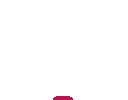
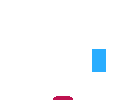
update images and logic r10 to r17

Changed region(s): [[0.7188, 0.48, 0.8438, 0.72]]

diff --git a/data.js b/data.js
@@ -204,11 +204,12 @@ module.exports.ROOMS = {
             // #ff0000
             hff0000: { cmd: "enter", room: "r06Reciclaje", label: "Materiales y residuos", point: [92, 95], enterPoint: [68, 47], obstacle: false },
             // #00e436
-            h00e436: { cmd: "enter", room: "r03Cookies", label: "cookies", point: [120, 84], enterPoint: [10, 85], obstacle: false },
+            // h00e436: { cmd: "enter", room: "r03Cookies", label: "cookies", point: [120, 84], enterPoint: [10, 85], obstacle: false },
+            h00e436: { cmd: "enter", room: "r12Resolucion", label: "cookies", point: [120, 84], enterPoint: [10, 85], obstacle: false },
             // #ff77a8
-            hff77a8: { cmd: "enter", room: "r10Nubes", label: "La nube", point: [98, 72], enterPoint: [60, 98], obstacle: false },
+            // hff77a8: { cmd: "enter", room: "r10Nubes", label: "La nube", point: [98, 72], enterPoint: [120, 92], obstacle: false },
             // #29adff
-            h29adff: { cmd: "enter", room: "r10Nubes", label: "La nube", point: [32, 72], enterPoint: [60, 98], obstacle: false },
+            h29adff: { cmd: "enter", room: "r10Nubes", label: "La nube", point: [32, 72], enterPoint: [120, 92], obstacle: false },
             // #ffec27
             hffec27: { cmd: "enter", room: "r09FakeNews", label: "Fake News", point: [10, 85], enterPoint: [120, 86], obstacle: false },
             // #be1250
@@ -229,7 +230,7 @@ module.exports.ROOMS = {
             h00cc99: { cmd: "text", label: "espejo 6", txt: "¡Genial! Si te interesa saber más sobre seguridad en la red, por aquí te dejamos información más amplia: ", lines: 4, url: "https://arsgames.net/wp-content/uploads/2019/02/manual-de-seguridad-digital.pdf", iframe: true, point: [87, 84], obstacle: false },
         },
         things: {
-            personaje: { file: "salas/r08Huella_NPC_Sprite.png", id: "personaje", offset: 2, position: [60, 77 - 11], frames: 4, frameDelay: 30, visible: true, label: "HuellaTRON", command: { cmd: "text", txt: "Uy si, las cookies de terceros son peligrosas para tu privacidad, seguro ya has aceptado muchas ¿revisamos tu huella digital?", lines: 4, point: [69, 88], obstacle: false }},
+            personaje: { file: "salas/r08Huella_NPC_Sprite.png", id: "personaje", position: [60, 77 - 11], frames: 4, frameDelay: 30, visible: true, label: "HuellaTRON", command: { cmd: "text", txt: "Uy si, las cookies de terceros son peligrosas para tu privacidad, seguro ya has aceptado muchas ¿revisamos tu huella digital?", lines: 4, point: [69, 88], obstacle: false }},
             // command: { cmd: "text", txt: "", lines: 2, postAction: true, actionId: "Survey1",  label: "???", point: [65, 95], obstacle: false } },
         }
         
@@ -246,9 +247,9 @@ module.exports.ROOMS = {
         areaColors: {
             //h will be replaced by #
             // #00e436
-            h00e436: { cmd: "enter", room: "r08Huella", label: "huella", point: [120, 85], enterPoint: [10, 85], obstacle: false },
+            h00e436: { cmd: "enter", room: "r08Huella", label: "Huella", point: [120, 85], enterPoint: [10, 85], obstacle: false },
             // #ffec27
-            hffec27: { cmd: "enter", room: "r10Nubes", label: "nubes", point: [10, 85], enterPoint: [60, 98], obstacle: false },
+            hffec27: { cmd: "enter", room: "r10Nubes", label: "La nube", point: [10, 85], enterPoint: [60, 98], obstacle: false },
             // #00cc99
             h00cc99: { cmd: "text", label: "news1", point: [97, 80], obstacle: false, txt: "hay que poner algo", url:"https://juego.verdaderofalso.com/", iframe: true },
             // #ff00ff
@@ -258,20 +259,29 @@ module.exports.ROOMS = {
         }
     },
     r10Nubes: {
-        bg: "/salas/r10Nubes.png",
+        bg: "/salas/r10Nubes_anim2.png",
+        frames: 2,
+        animations: { 
+            nube: [0, 2], 
+            transformacion: [2, 2], 
+            cables: [4, 2],
+        },
         frameDelay: 60,
         avatarScale: 3,
         pageBg: "#1c2016",
-        area: "/salas/r10Nubes_Int.png",
+        area: "/salas/r10Nubes_Int_Anim.png",
         tint: "#fdeac8",
         bubblesY: 44,
         spawn: [40, 85, 90, 95],
         areaColors: {
             //h will be replaced by #
-
+            // #00e436
+            h00e436: { cmd: "enter", room: "r08Huella", label: "Huella", point: [115, 92], enterPoint: [32, 72], obstacle: false },
+            // #ffec27
+            hffec27: { cmd: "enter", room: "r11Lago", label: "Lago", point: [20, 85], enterPoint: [32, 72], obstacle: false },
             // HABRIA QUE PONER OTRA SALIDA???
             // #ff0000
-            hff0000: { cmd: "enter", room: "r08Huella", label: "huella", point: [60, 98], enterPoint: [32, 72], obstacle: false },
+            hff0000: { cmd: "enter", room: "r09FakeNews", label: "Fake News", point: [60, 98], enterPoint: [10, 86], obstacle: false },
             // #ff77a8
             hff77a8: { cmd: "enter", room: "r13Netiqueta", label: "planta -1", point: [86, 77], enterPoint: [60, 95], obstacle: false },
             // #b75714
@@ -286,22 +296,33 @@ module.exports.ROOMS = {
             h0066ff: { cmd: "text", label: "nube oscura 2", txt: "¡Internet contamina! Mira cuanto (embeber nada más la infografía que se mueve. Si pudiésemos hacerla nosotros en castellano mucho mejor ", url: "https://www.ticbeat.com/innovacion/huella-carbono-internet/", iframe: true, lines: 5, point: [60, 85], obstacle: false },
             // #9900cc
             h9900cc: { cmd: "text", label: "nube oscura 3", txt: "hacer una infografía similar a esta, que muestre más información y datos.", url: "https://www.custommade.com/blog/carbon-footprint-of-internet/", iframe: true, lines: 3, point: [80, 80], obstacle: false },
-        }
+        },
+        things: {
+            // nubeA: { file: "salas/r08Huella_NPC_Sprite.png", id: "personaje", position: [60, 77 - 11], frames: 4, frameDelay: 30, visible: true, label: "HuellaTRON", command: { cmd: "text", txt: "Uy si, las cookies de terceros son peligrosas para tu privacidad, seguro ya has aceptado muchas ¿revisamos tu huella digital?", lines: 4, point: [69, 88], obstacle: false }},
+            // command: { cmd: "text", txt: "", lines: 2, postAction: true, actionId: "Survey1",  label: "???", point: [65, 95], obstacle: false } },
+        },
     },
     r11Lago: {
         bg: "/salas/r11Lago.png",
+        frames: 2,
         frameDelay: 60,
         avatarScale: 3,
         pageBg: "#1c2016",
-        area: "/salas/r11Lago_Int.png",
+        area: "/salas/r11Lago_Int2.png",
         tint: "#fdeac8",
         bubblesY: 44,
-        spawn: [40, 85, 90, 95],
+        spawn: [10, 72, 21, 82],
         areaColors: {
             //h will be replaced by #
-            // #be1250
-            hbe1250: { cmd: "enter", room: "r10Nubes", label: "nubes", point: [60, 95], enterPoint: [86, 77], obstacle: false },
-        }
+            // #ffec27
+            hffec27: { cmd: "enter", room: "r10Nubes", label: "nubes", point: [15, 80], enterPoint: [10, 86], obstacle: false },
+            // #9900cc
+            h9900cc: { cmd: "text", txt: "como te llamas?", label: "pescador", point: [109, 74], obstacle: false },
+        },
+        things: {
+            // pescador: { file: "salas/r08Huella_NPC_Sprite.png", id: "personaje", position: [60, 77 - 11], frames: 4, frameDelay: 30, visible: true, label: "HuellaTRON", command: { cmd: "text", txt: "Uy si, las cookies de terceros son peligrosas para tu privacidad, seguro ya has aceptado muchas ¿revisamos tu huella digital?", lines: 4, point: [69, 88], obstacle: false }},
+            // command: { cmd: "text", txt: "", lines: 2, postAction: true, actionId: "Survey1",  label: "???", point: [65, 95], obstacle: false } },
+        },
     },
     r12Resolucion: {
         bg: "/salas/r12Resolucion.png",
@@ -333,6 +354,7 @@ module.exports.ROOMS = {
     },
     r13Netiqueta: {
         bg: "/salas/r13Netiqueta.png",
+        frames: 2,
         frameDelay: 60,
         avatarScale: 3,
         pageBg: "#1c2016",
@@ -344,13 +366,18 @@ module.exports.ROOMS = {
             //h will be replaced by #
             // #be1250
             hbe1250: { cmd: "enter", room: "r10Nubes", label: "nubes", point: [60, 95], enterPoint: [86, 77], obstacle: false },
+            // #29adff
+            h29adff: { cmd: "enter", room: "r12Resolucion", label: "Resolución", point: [100, 76], enterPoint: [10, 85], obstacle: false },
         },
         things: {
-            cabinet: { file: "pico-cabinet.png", id: "cabinet", offset: 9, position: [25, 64], frames: 1, frameDelay: 60, visible: true, label: "ascensor", command: { cmd: "text", actionId: "Cabinet", txt: "Oh, un teletransporte", lines: 1, point: [38, 86] } },
+            // teletransport cabinet
+            // cabinet: { file: "pico-cabinet.png", id: "cabinet", offset: 9, position: [25, 64], frames: 1, frameDelay: 60, visible: true, label: "ascensor", command: { cmd: "text", actionId: "Cabinet", txt: "Oh, un teletransporte", lines: 1, point: [38, 86] } },
+            cabinet: { file: "pico-cabinet.png", id: "cabinet", offset: 9, position: [25, 64], frames: 1, frameDelay: 60, visible: true, label: "ascensor", command: { cmd: "text", txt: "Iframe netiqueta", iframe: true, url:"https://es.wikipedia.org/wiki/Netiqueta", lines: 1, point: [38, 86] } },
         }
     },
     r14Creacion: {
         bg: "/salas/r14Creacion.png",
+        frames: 2,
         frameDelay: 60,
         avatarScale: 3,
         pageBg: "#1c2016",
@@ -402,6 +429,7 @@ module.exports.ROOMS = {
     },
     r16Colabora: {
         bg: "/salas/r16Colabora.png",
+        frames: 2,
         frameDelay: 60,
         avatarScale: 3,
         pageBg: "#1c2016",
@@ -424,6 +452,7 @@ module.exports.ROOMS = {
     },
     r17SalaCrypto: {
         bg: "/salas/r17SalaCrypto.png",
+        frames: 2,
         frameDelay: 60,
         avatarScale: 3,
         pageBg: "#1c2016",

diff --git a/serverMod.js b/serverMod.js
@@ -104,6 +104,15 @@ module.exports.initMod = function (io, gameState, DATA) {
         "qué es el ransomware."
     ];
 
+    global.netiquetaTalk = [
+        "¿Qué opinas de las reglas de la netiqueta?",
+        "¿Se podrían mejorar?",
+        "Entre las personas que estáis en la sala",
+        "definid las reglas que debería tener este espacio,",
+        "podéis enviarlas a",
+        "educacionconectadaarquitecto@fad.com"
+    ];
+
     //  _   _ ____   ____     
     // | \ | |  _ \ / ___|___ 
     // |  \| | |_) | |   / __|
@@ -133,6 +142,18 @@ module.exports.initMod = function (io, gameState, DATA) {
         colors: [2, 2, 1, 5],
         labelColor: "#1e839d",
         actionId: "Divulgador"
+    });
+
+    var netiquetaNpc = new NPC({
+        id: "neti",
+        nickName: "neti",
+        room: "r13Netiqueta",
+        x: 72,
+        y: 77,
+        avatar: 1,
+        colors: [2, 2, 1, 5],
+        labelColor: "#1e839d",
+        actionId: "Netiqueta"
     });
 
     divulgadorNpc.behavior = setTimeout(function ramble() {
@@ -248,7 +269,6 @@ module.exports.r02EntradaLeave = function(player, roomId) {
     if (roomState.usersList.length === 0) {
         global.roomStates['r03Cookies'].monsterActive = false;
         deactivateCookieMonster();
-        // console.log('monstruo----------------off')
     }
 }
 
@@ -325,6 +345,14 @@ module.exports.r10NubesJoin = function(player, roomId) {
     // console.log("MOD: " + player.nickName + " entered room " + roomId);
     // io.emit('musicExit');
     // io.emit('musicOn', 3);
+    setTimeout(function() {
+        io.sockets.emit('changeBgAnim', 'transformacion' );
+        setTimeout(function() {
+            io.sockets.emit('changeBgAnim', 'cables' );
+        }, 3000);
+    }, 5000);
+}
+
 module.exports.r12ResolucionJoin = function(player, roomId) {
     let roomState = global.roomStates[roomId];
     roomState.usersList.push(player.id);
@@ -370,7 +398,7 @@ module.exports.r13NetiquetaJoin = function(player, roomId) {
 //  \__,_|\___|\__|_|\___/|_| |_|___/
 //        
 
-module.exports.onCookies = function(playerId, roomId) {
+module.exports.onCookies = function() {
     global.roomStates['r03Cookies'].monsterActive = true;
     activateCookieMonster();
     // console.log('monstruo----------------activo')
@@ -385,21 +413,22 @@ module.exports.onSurvey1 = function(playerId) {
 }
 
 
-module.exports.onCabinet = function(playerId, roomId) {
+module.exports.onCabinet = function(playerId,) {
     console.log('cabinet----------------action');
     this.transferPlayer(playerId, "r13Netiqueta", "r12Resolucion", 10 * 2, 86 * 2);
 }
 
-module.exports.onNpcFixit = function(playerId, roomId) {
-    console.log('npcFixit----------------action');
+module.exports.onNpcFixit = function(playerId) {
+    let roomState = global.roomStates["r12Resolucion"];
+    roomState.missionUsersList.push(playerId);
     this.transferPlayer(playerId, "r12Resolucion", "r06Reciclaje", 68 * 2, 65 * 2);
 }
 
-module.exports.onRecepcionista = function(playerId, roomId) {
+module.exports.onRecepcionista = function(playerId) {
     console.log('recepcionista----------------action');
 }
 
-module.exports.onDivulgador = function(playerId, roomId) {
+module.exports.onDivulgador = function(playerId) {
     console.log('Divulgador----------------action');
     let roomState = global.roomStates["r02Entrada"];
 
